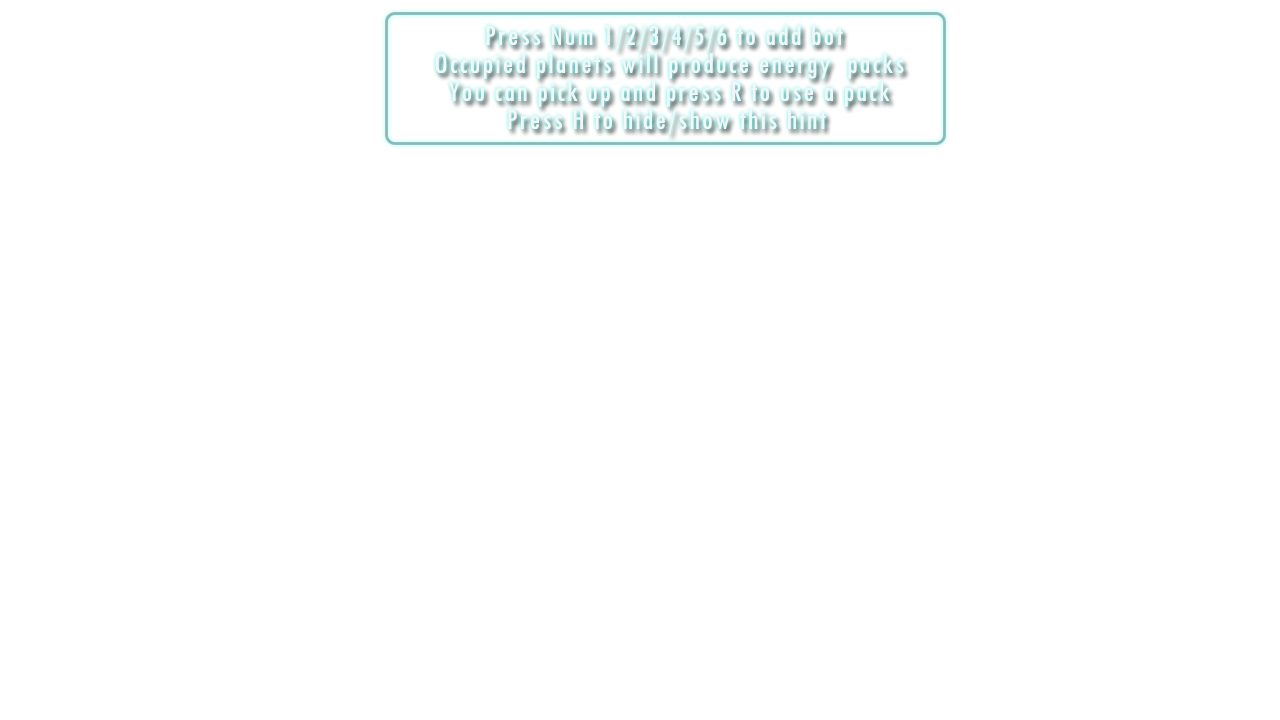
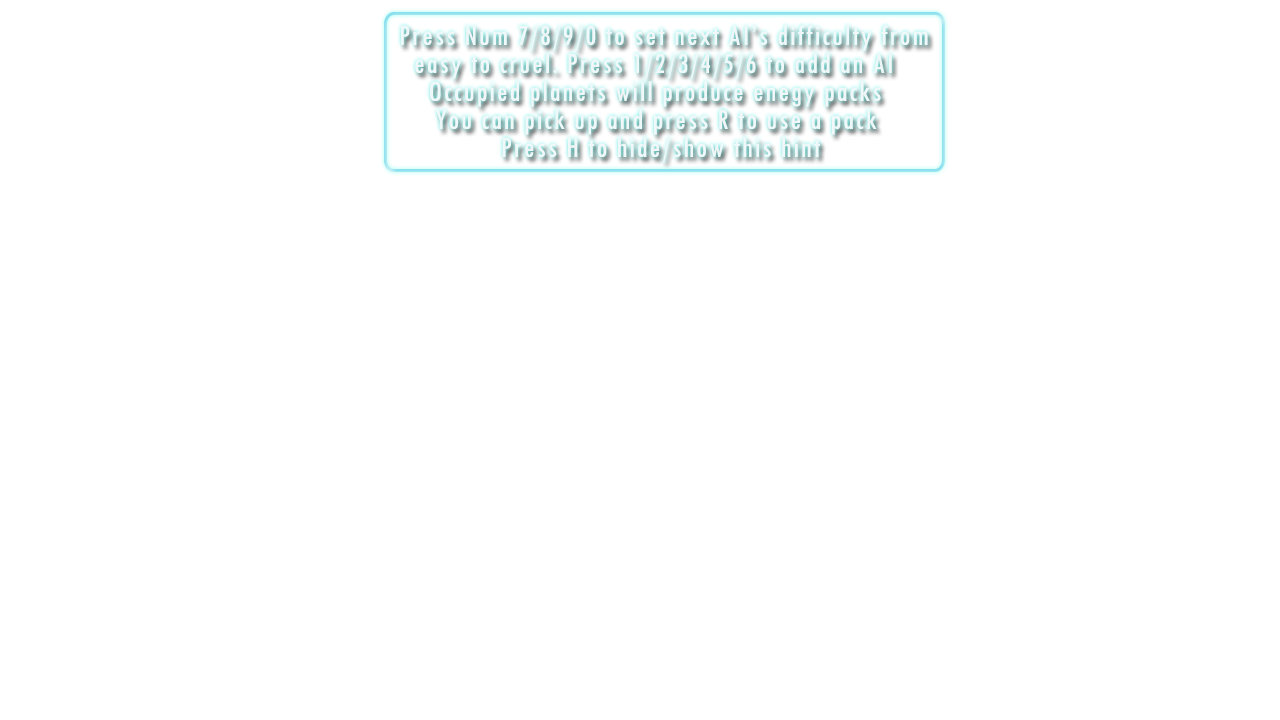
improve conquer mode

Changed region(s): [[0.2812, 0.0, 0.75, 0.2444]]

diff --git a/Samurai/core/src/com/samurai/el/maingame/ConquerSetScreen.java b/Samurai/core/src/com/samurai/el/maingame/ConquerSetScreen.java
@@ -6,9 +6,11 @@ import com.badlogic.gdx.Preferences;
 import com.badlogic.gdx.Screen;
 import com.badlogic.gdx.audio.Music;
 import com.badlogic.gdx.audio.Sound;
+import com.badlogic.gdx.graphics.Color;
 import com.badlogic.gdx.graphics.GL20;
 import com.badlogic.gdx.graphics.OrthographicCamera;
 import com.badlogic.gdx.graphics.Texture;
+import com.badlogic.gdx.graphics.g2d.BitmapFont;
 import com.badlogic.gdx.graphics.g2d.Sprite;
 import com.badlogic.gdx.graphics.g2d.SpriteBatch;
 import com.badlogic.gdx.scenes.scene2d.Actor;
@@ -16,7 +18,12 @@ import com.badlogic.gdx.scenes.scene2d.InputEvent;
 import com.badlogic.gdx.scenes.scene2d.InputListener;
 import com.badlogic.gdx.scenes.scene2d.Stage;
 import com.badlogic.gdx.scenes.scene2d.ui.ImageButton;
+import com.badlogic.gdx.scenes.scene2d.ui.Label;
+import com.badlogic.gdx.scenes.scene2d.ui.Slider;
+import com.badlogic.gdx.scenes.scene2d.utils.ChangeListener;
+import com.badlogic.gdx.scenes.scene2d.utils.SpriteDrawable;
 import com.badlogic.gdx.scenes.scene2d.utils.TextureRegionDrawable;
+import com.badlogic.gdx.scenes.scene2d.utils.ChangeListener.ChangeEvent;
 import com.badlogic.gdx.utils.viewport.StretchViewport;
 import com.samurai.el.resource.Resources;
 
@@ -27,6 +34,9 @@ public class ConquerSetScreen implements Screen{
 	public Stage sideStage;
 	public Stage shipStage;
 	public Stage currentStage;
+	public BitmapFont font;
+	public Label timeset_label;
+	public Slider timeset;
 	public ImageButton republic;
 	public ImageButton union;
 	public Sprite republicFont;
@@ -140,6 +150,30 @@ public class ConquerSetScreen implements Screen{
 		
 		sideStage.addActor(republic);
 		sideStage.addActor(union);
+		
+		//time slider and time label
+		font=new BitmapFont(Gdx.files.internal("foxwel_temp/choose/1.fnt"),Gdx.files.internal("foxwel_temp/choose/1.png"), false);
+		Sprite bar=new Sprite(new Texture("img/setting/barA.png"));
+		Sprite tt=new Sprite(new Texture("img/setting/tA.png"));
+		Slider.SliderStyle timestyle=new Slider.SliderStyle(new SpriteDrawable(bar),new SpriteDrawable(tt)); 
+		timeset=new Slider(200,3000,1,false,timestyle);
+		
+		Label.LabelStyle labelstyle =new Label.LabelStyle(font, Color.WHITE);		
+		timeset_label=new Label("90S",labelstyle);
+		shipStage.addActor(timeset);
+		timeset.setBounds(640-700/2, 90,700, 35);
+		timeset.setValue(900);
+		shipStage.addActor(timeset_label);
+		timeset_label.setPosition(1000, 90);
+		timeset.addListener(new ChangeListener()
+		{
+			 public void changed (ChangeEvent event, Actor actor) 
+			 {
+				 int timetime=(int) (timeset.getValue()/10);
+				 
+				 timeset_label.setText(timetime+"s");
+			 }
+		});
 				
 	}
 	
@@ -158,7 +192,7 @@ public class ConquerSetScreen implements Screen{
 			advancerstyle.imageDown=new TextureRegionDrawable(new Sprite(new Texture(Gdx.files.internal("img/gameset/h0.png"))));
 			advancerstyle.imageOver=new TextureRegionDrawable(new Sprite(new Texture(Gdx.files.internal("img/gameset/h0.png"))));
 			advancer = new ImageButton(advancerstyle);
-			advancer.setPosition(400, 320);
+			advancer.setPosition(395, 320);
 			advancer.addListener(new InputListener()
 			{
 				    @Override
@@ -174,7 +208,7 @@ public class ConquerSetScreen implements Screen{
 		           public void touchUp(InputEvent event, float x, float y, int pointer, int button) 
 		           {
 		        	   player = 0;
-		        	   GameInstance.setInstance(player, 2, 120);
+		        	   GameInstance.setInstance(player, 2, (int) (timeset.getValue()/10));
 		        	   bgm.stop();
 		        	   bgm.dispose();
 		        	   game.setScreen(new GameScreen(game));
@@ -190,7 +224,7 @@ public class ConquerSetScreen implements Screen{
 			trackerstyle.imageDown=new TextureRegionDrawable(new Sprite(new Texture(Gdx.files.internal("img/gameset/h1.png"))));
 			trackerstyle.imageOver=new TextureRegionDrawable(new Sprite(new Texture(Gdx.files.internal("img/gameset/h1.png"))));
 			tracker = new ImageButton(trackerstyle);
-			tracker.setPosition(600, 320);
+			tracker.setPosition(595, 320);
 			tracker.addListener(new InputListener()
 			{
 				    @Override
@@ -206,7 +240,7 @@ public class ConquerSetScreen implements Screen{
 		           public void touchUp(InputEvent event, float x, float y, int pointer, int button) 
 		           {
 		        	   player = 1;
-		        	   GameInstance.setInstance(player, 2, 120);
+		        	   GameInstance.setInstance(player, 2, (int) (timeset.getValue()/10));
 		        	   bgm.stop();
 		        	   bgm.dispose();
 		        	   game.setScreen(new GameScreen(game));
@@ -222,7 +256,7 @@ public class ConquerSetScreen implements Screen{
 			reaperstyle.imageDown=new TextureRegionDrawable(new Sprite(new Texture(Gdx.files.internal("img/gameset/h2.png"))));
 			reaperstyle.imageOver=new TextureRegionDrawable(new Sprite(new Texture(Gdx.files.internal("img/gameset/h2.png"))));
 			reaper = new ImageButton(reaperstyle);
-			reaper.setPosition(800, 320);
+			reaper.setPosition(795, 320);
 			reaper.addListener(new InputListener()
 			{
 				    @Override
@@ -238,7 +272,7 @@ public class ConquerSetScreen implements Screen{
 		           public void touchUp(InputEvent event, float x, float y, int pointer, int button) 
 		           {
 		        	   player = 2;
-		        	   GameInstance.setInstance(player, 2, 120);
+		        	   GameInstance.setInstance(player, 2, (int) (timeset.getValue()/10));
 		        	   bgm.stop();
 		        	   bgm.dispose();
 		        	   game.setScreen(new GameScreen(game));
@@ -258,7 +292,7 @@ public class ConquerSetScreen implements Screen{
 			advancerstyle.imageDown=new TextureRegionDrawable(new Sprite(new Texture(Gdx.files.internal("img/gameset/h3.png"))));
 			advancerstyle.imageOver=new TextureRegionDrawable(new Sprite(new Texture(Gdx.files.internal("img/gameset/h3.png"))));
 			advancer = new ImageButton(advancerstyle);
-			advancer.setPosition(400, 320);
+			advancer.setPosition(395, 320);
 			advancer.addListener(new InputListener()
 			{
 				    @Override
@@ -274,7 +308,7 @@ public class ConquerSetScreen implements Screen{
 		           public void touchUp(InputEvent event, float x, float y, int pointer, int button) 
 		           {
 		        	   player = 3;
-		        	   GameInstance.setInstance(player, 2, 120);
+		        	   GameInstance.setInstance(player, 2, (int) (timeset.getValue()/10));
 		        	   bgm.stop();
 		        	   bgm.dispose();
 		        	   game.setScreen(new GameScreen(game));
@@ -290,7 +324,7 @@ public class ConquerSetScreen implements Screen{
 			trackerstyle.imageDown=new TextureRegionDrawable(new Sprite(new Texture(Gdx.files.internal("img/gameset/h4.png"))));
 			trackerstyle.imageOver=new TextureRegionDrawable(new Sprite(new Texture(Gdx.files.internal("img/gameset/h4.png"))));
 			tracker = new ImageButton(trackerstyle);
-			tracker.setPosition(600, 320);
+			tracker.setPosition(595, 320);
 			tracker.addListener(new InputListener()
 			{
 				    @Override
@@ -306,7 +340,7 @@ public class ConquerSetScreen implements Screen{
 		           public void touchUp(InputEvent event, float x, float y, int pointer, int button) 
 		           {
 		        	   player = 4;
-		        	   GameInstance.setInstance(player, 2, 120);
+		        	   GameInstance.setInstance(player, 2, (int) (timeset.getValue()/10));
 		        	   bgm.stop();
 		        	   bgm.dispose();
 		        	   game.setScreen(new GameScreen(game));
@@ -322,7 +356,7 @@ public class ConquerSetScreen implements Screen{
 			reaperstyle.imageDown=new TextureRegionDrawable(new Sprite(new Texture(Gdx.files.internal("img/gameset/h5.png"))));
 			reaperstyle.imageOver=new TextureRegionDrawable(new Sprite(new Texture(Gdx.files.internal("img/gameset/h5.png"))));
 			reaper = new ImageButton(reaperstyle);
-			reaper.setPosition(800, 320);
+			reaper.setPosition(795, 320);
 			reaper.addListener(new InputListener()
 			{
 				    @Override
@@ -338,7 +372,7 @@ public class ConquerSetScreen implements Screen{
 		           public void touchUp(InputEvent event, float x, float y, int pointer, int button) 
 		           {
 		        	   player = 5;
-		        	   GameInstance.setInstance(player, 2, 120);
+		        	   GameInstance.setInstance(player, 2, (int) (timeset.getValue()/10));
 		        	   bgm.stop();
 		        	   bgm.dispose();
 		        	   game.setScreen(new GameScreen(game));

diff --git a/Samurai/core/src/com/samurai/el/maingame/GameStage.java b/Samurai/core/src/com/samurai/el/maingame/GameStage.java
@@ -190,6 +190,18 @@ public class GameStage extends Stage{
 					if(keycode == Input.Keys.R) {
 						human.launchEpack();
 					}
+					if(keycode == Input.Keys.NUM_7) {
+						GameInstance.conquerDifficulty = 0;						
+					}
+					if(keycode == Input.Keys.NUM_8) {
+						GameInstance.conquerDifficulty = 1;						
+					}
+					if(keycode == Input.Keys.NUM_9) {
+						GameInstance.conquerDifficulty = 2;						
+					}
+					if(keycode == Input.Keys.NUM_0) {
+						GameInstance.conquerDifficulty = 3;						
+					}
 
 				}
 				if(keycode == Input.Keys.P) {

diff --git a/Samurai/core/src/com/samurai/el/ai/PlanetCruelAI.java b/Samurai/core/src/com/samurai/el/ai/PlanetCruelAI.java
@@ -37,9 +37,16 @@ public class PlanetCruelAI extends PlanetAI {
 					occupyPlanet();
 				} else {
 					for(Player p: allies) {
-						if(p.ai.target != null) {
-							target = p.ai.target;
-							break;
+						if(!p.isHuman) {
+							if(p.ai.target != null) {
+								target = p.ai.target;
+								break;
+							}
+						} else {
+							target = gameInstance.field.checkVision(p, p.position);
+							if(target != null) {
+								break;
+							}
 						}
 					}
 					if(target != null) {

diff --git a/Samurai/core/src/com/samurai/el/field/Field.java b/Samurai/core/src/com/samurai/el/field/Field.java
@@ -413,7 +413,14 @@ public abstract class Field implements Disposable{
 							}
 						}				
 					}
-														
+					
+					//detect planet, occupy first
+					Block targetBlock = blocks[(int) targetPosition.x][(int) targetPosition.y];
+					if(targetBlock.isPlanet) {
+						if(targetBlock.side != player.side) {
+							return true;
+						} 						
+					}																
 				}
 			}
 			return safe;

diff --git a/Samurai/core/src/com/samurai/el/player/Player.java b/Samurai/core/src/com/samurai/el/player/Player.java
@@ -177,6 +177,7 @@ public abstract class Player extends Sprite implements Disposable{
 		if(fightMode) {
 			fightCancel();
 		}
+		epackNum = 0;
 	}
 	
 	
